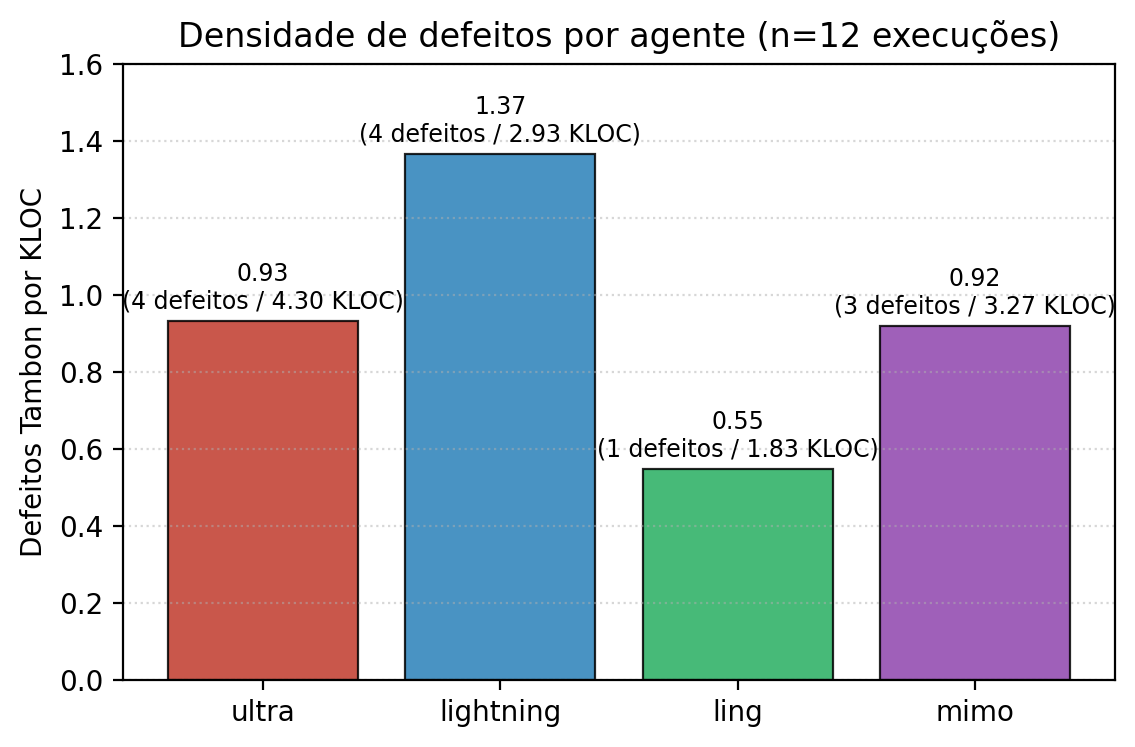
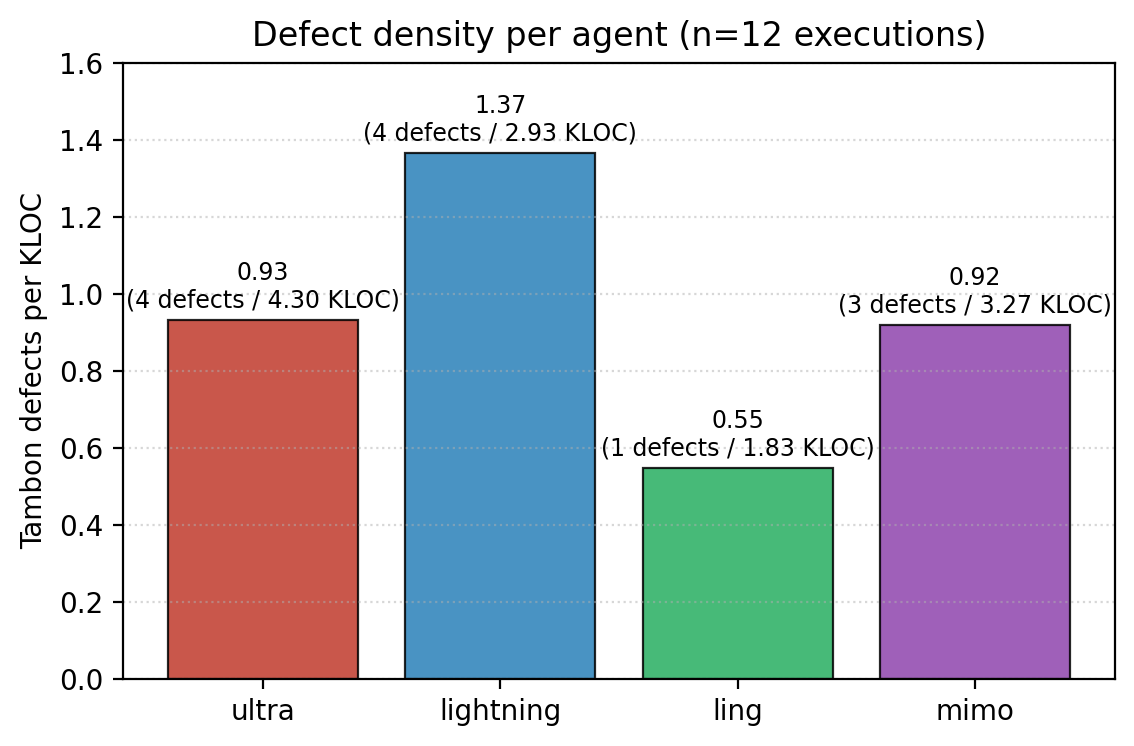
fase 0: figuras em ingles, R1 x R2 (anonimizacao)

diff --git a/pesquisa/sbes-2027/artefatos/gerar_figuras.py b/pesquisa/sbes-2027/artefatos/gerar_figuras.py
@@ -64,12 +64,12 @@ bars = ax.bar(AGENTS, [DENS[a] for a in AGENTS], color=colors, alpha=0.85,
               edgecolor="black", linewidth=0.8)
 for b, a in zip(bars, AGENTS):
     ax.text(b.get_x() + b.get_width()/2, b.get_height() + 0.02,
-            f"{DENS[a]:.2f}\n({DEF[a]} defeitos / {KLOC[a]:.2f} KLOC)",
+            f"{DENS[a]:.2f}\n({DEF[a]} defects / {KLOC[a]:.2f} KLOC)",
             ha="center", va="bottom", fontsize=8.5)
-ax.set_ylabel("Defeitos Tambon por KLOC")
+ax.set_ylabel("Tambon defects per KLOC")
 ax.set_ylim(0, 1.6)
 ax.grid(axis="y", linestyle=":", alpha=0.5)
-ax.set_title("Densidade de defeitos por agente (n=12 execuções)")
+ax.set_title("Defect density per agent (n=12 executions)")
 save(fig, "fig1_densidade.png")
 
 # ---------------------------------------------------------------------------
@@ -86,7 +86,7 @@ for i in range(MAT.shape[0]):
         ax.text(j, i, str(v) if v else "", ha="center", va="center",
                 color="black" if v < 3 else "white", fontsize=10)
 cbar = fig.colorbar(im, ax=ax, fraction=0.046)
-ax.set_title("Distribuição de defeitos: categoria Tambon x agente")
+ax.set_title("Defect distribution: Tambon category x agent")
 save(fig, "fig2_heatmap_categoria_agente.png")
 
 # ---------------------------------------------------------------------------
@@ -95,17 +95,17 @@ fig, ax = plt.subplots(figsize=(6.4, 4.0))
 x = np.arange(len(AGENTS))
 boot_vals = [BOOT[a] for a in AGENTS]
 noboot = [3 - BOOT[a] for a in AGENTS]
-p1 = ax.bar(x, noboot, BASE, label="Não bootável", color="#e74c3c", edgecolor="black", linewidth=0.8)
-p2 = ax.bar(x, boot_vals, BASE, bottom=noboot, label="Bootável", color="#2ecc71", edgecolor="black", linewidth=0.8)
+p1 = ax.bar(x, noboot, BASE, label="Non-bootable", color="#e74c3c", edgecolor="black", linewidth=0.8)
+p2 = ax.bar(x, boot_vals, BASE, bottom=noboot, label="Bootable", color="#2ecc71", edgecolor="black", linewidth=0.8)
 ax.set_xticks(x)
 ax.set_xticklabels(AGENTS)
 for xi, bv, nv in zip(x, boot_vals, noboot):
     ax.text(xi, nv + 0.05, f"{nv}/3", ha="center", va="bottom", fontsize=9)
     if bv:
         ax.text(xi, nv + bv + 0.05, f"boot {bv}", ha="center", va="bottom", fontsize=9)
-ax.set_ylabel("Número de execuções (de 3)")
+ax.set_ylabel("Number of executions (out of 3)")
 ax.set_ylim(0, 3.6)
-ax.set_title(f"Bootabilidade por agente — total {BOOT_TOTAL}/12 bootáveis")
+ax.set_title(f"Bootability per agent — total {BOOT_TOTAL}/12 bootable")
 ax.legend()
 ax.grid(axis="y", linestyle=":", alpha=0.5)
 save(fig, "fig3_bootabilidade.png")
@@ -113,22 +113,22 @@ save(fig, "fig3_bootabilidade.png")
 # ---------------------------------------------------------------------------
 # Figura 4 — Concordância inter-avaliador (kappa) categoria vs severidade
 fig, ax = plt.subplots(figsize=(5.2, 4.0))
-labels = ["Categoria\n(Tambon)", "Severidade"]
+labels = ["Category\n(Tambon)", "Severity"]
 kappa = [0.54, 0.91]
-bands = [("Sem concordância", -1, 0, "#cccccc"),
-         ("Leve", 0, 0.2, "#d9d9d9"),
-         ("Razoável", 0.2, 0.4, "#f6f6f6"),
-         ("Moderada", 0.4, 0.6, "#fff3cd"),
-         ("Substancial", 0.6, 0.8, "#d4edda"),
-         ("Quase perfeita", 0.8, 1.0, "#c3e6cb")]
+bands = [("No agreement", -1, 0, "#cccccc"),
+         ("Slight", 0, 0.2, "#d9d9d9"),
+         ("Fair", 0.2, 0.4, "#f6f6f6"),
+         ("Moderate", 0.4, 0.6, "#fff3cd"),
+         ("Substantial", 0.6, 0.8, "#d4edda"),
+         ("Almost perfect", 0.8, 1.0, "#c3e6cb")]
 for lab, lo, hi, c in bands:
     ax.axhspan(lo, hi, color=c, zorder=0)
 bars = ax.bar(labels, kappa, color=["#f39c12", "#2980b9"], edgecolor="black", width=0.55, zorder=3)
 for b, k in zip(bars, kappa):
     ax.text(b.get_x() + b.get_width()/2, k + 0.02, f"κ={k:.2f}", ha="center", va="bottom", fontsize=10)
 ax.set_ylim(0, 1.15)
-ax.set_ylabel("κ de Cohen")
-ax.set_title("Concordância inter-avaliador (Dr. A x Dr. B, n=18)")
+ax.set_ylabel("Cohen's κ")
+ax.set_title("Inter-rater agreement (R1 x R2, n=18)")
 ax.grid(axis="y", linestyle=":", alpha=0.4, zorder=2)
 save(fig, "fig4_kappa.png")
 
@@ -148,9 +148,9 @@ for k, sev in enumerate(SEV):
     left += vals
 ax.set_yticks(y)
 ax.set_yticklabels(AGENTS)
-ax.set_xlabel("Número de defeitos")
+ax.set_xlabel("Number of defects")
 ax.set_xlim(0, 5)
-ax.set_title("Severidade dos defeitos Tambon por agente (12/12 Blocker ou Critical)")
+ax.set_title("Tambon defect severity per agent (12/12 Blocker or Critical)")
 ax.legend(loc="lower right", fontsize=8)
 save(fig, "fig5_severidade.png")
 
